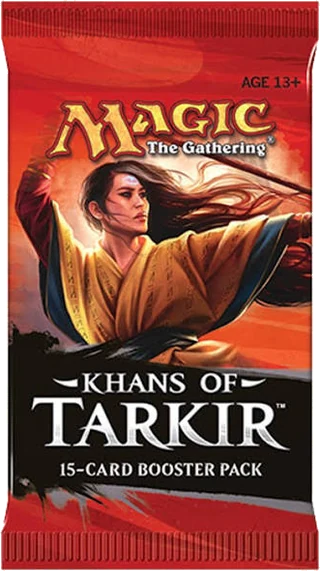
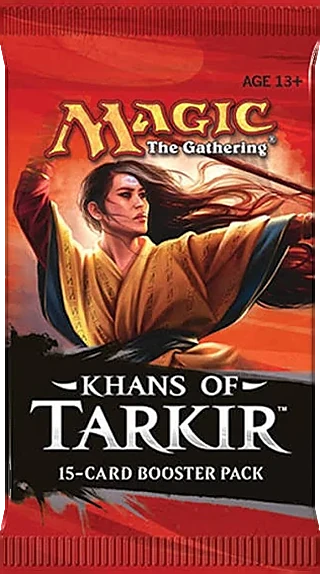
Draft v0.37: standardize the hand-cut pack wrappers (KTK, MH1, MH2)
Each set's covers are cropped to the pack, cleaned of background specks,
holes and halos, resized to one size and given the same anti-aliased
outline (tools/pack_wrappers.py).

Claude-Session: https://claude.ai/code/session_01ES5zisMmEr5N7kJQveTp3T

diff --git a/cube/index.html b/cube/index.html
@@ -363,9 +363,10 @@ a.btnlink{text-decoration:none}
 "use strict";
 /* GoatCounter event (anonymous count, see the head). Waits up to 20 s for count.js; never throws; once=key counts a thing only once per browser tab. */
 function gcEvent(path, title, once){ try{ if(once){ const k='mt_gc_'+once; if(sessionStorage.getItem(k)) return; sessionStorage.setItem(k,'1'); } }catch(e){} let n=0; const go=()=>{ try{ const g=window.goatcounter; if(g && g.count) g.count({path, title:title||path, event:true}); else if(++n<40) setTimeout(go, 500); }catch(e){} }; go(); }
-const VERSION = 'v0.36';
+const VERSION = 'v0.37';
 /* What's new on the front page (v0.19, like the Modern Table's NEWS): newest first, written for players. Add a line with every version bump. */
 const DNEWS = [
+  ['v0.37','Nov 16',"Sealed: the Khans of Tarkir, Modern Horizons and Modern Horizons 2 pack wrappers are cleaned up. Every cover of a set is now the same size and shape, with clean edges (no white specks or see-through spots)."],
   ['v0.36','Nov 15',"Archetype guides for every set: Reality Fracture, Final Fantasy, Modern Horizons 1 and 2 and Khans of Tarkir. Each shows the official archetypes and signpost cards plus notes and key cards from players' draft guides. Read them while choosing a set, while everyone joins, and in a window during the draft (Archetypes in the top bar or next to Take). Khans of Tarkir prereleases now work like the real one: pick a clan, then open five packs plus a seeded booster of your clan's colors with a foil clan promo."],
   ['v0.35','Nov 11',"Card text is now built into the site, so drafts and cube drafts keep working when Scryfall's card lookups are down, and a card whose picture can't load shows its text instead of a blank."],
   ['v0.34','Nov 11',"Sealed: Modern Horizons 2 packs now show their real wrapper art, all three covers. Every sealed set has real packs now."],

diff --git a/draft/index.html b/draft/index.html
@@ -363,9 +363,10 @@ a.btnlink{text-decoration:none}
 "use strict";
 /* GoatCounter event (anonymous count, see the head). Waits up to 20 s for count.js; never throws; once=key counts a thing only once per browser tab. */
 function gcEvent(path, title, once){ try{ if(once){ const k='mt_gc_'+once; if(sessionStorage.getItem(k)) return; sessionStorage.setItem(k,'1'); } }catch(e){} let n=0; const go=()=>{ try{ const g=window.goatcounter; if(g && g.count) g.count({path, title:title||path, event:true}); else if(++n<40) setTimeout(go, 500); }catch(e){} }; go(); }
-const VERSION = 'v0.36';
+const VERSION = 'v0.37';
 /* What's new on the front page (v0.19, like the Modern Table's NEWS): newest first, written for players. Add a line with every version bump. */
 const DNEWS = [
+  ['v0.37','Nov 16',"Sealed: the Khans of Tarkir, Modern Horizons and Modern Horizons 2 pack wrappers are cleaned up. Every cover of a set is now the same size and shape, with clean edges (no white specks or see-through spots)."],
   ['v0.36','Nov 15',"Archetype guides for every set: Reality Fracture, Final Fantasy, Modern Horizons 1 and 2 and Khans of Tarkir. Each shows the official archetypes and signpost cards plus notes and key cards from players' draft guides. Read them while choosing a set, while everyone joins, and in a window during the draft (Archetypes in the top bar or next to Take). Khans of Tarkir prereleases now work like the real one: pick a clan, then open five packs plus a seeded booster of your clan's colors with a foil clan promo."],
   ['v0.35','Nov 11',"Card text is now built into the site, so drafts and cube drafts keep working when Scryfall's card lookups are down, and a card whose picture can't load shows its text instead of a blank."],
   ['v0.34','Nov 11',"Sealed: Modern Horizons 2 packs now show their real wrapper art, all three covers. Every sealed set has real packs now."],

diff --git a/night/index.html b/night/index.html
@@ -363,9 +363,10 @@ a.btnlink{text-decoration:none}
 "use strict";
 /* GoatCounter event (anonymous count, see the head). Waits up to 20 s for count.js; never throws; once=key counts a thing only once per browser tab. */
 function gcEvent(path, title, once){ try{ if(once){ const k='mt_gc_'+once; if(sessionStorage.getItem(k)) return; sessionStorage.setItem(k,'1'); } }catch(e){} let n=0; const go=()=>{ try{ const g=window.goatcounter; if(g && g.count) g.count({path, title:title||path, event:true}); else if(++n<40) setTimeout(go, 500); }catch(e){} }; go(); }
-const VERSION = 'v0.36';
+const VERSION = 'v0.37';
 /* What's new on the front page (v0.19, like the Modern Table's NEWS): newest first, written for players. Add a line with every version bump. */
 const DNEWS = [
+  ['v0.37','Nov 16',"Sealed: the Khans of Tarkir, Modern Horizons and Modern Horizons 2 pack wrappers are cleaned up. Every cover of a set is now the same size and shape, with clean edges (no white specks or see-through spots)."],
   ['v0.36','Nov 15',"Archetype guides for every set: Reality Fracture, Final Fantasy, Modern Horizons 1 and 2 and Khans of Tarkir. Each shows the official archetypes and signpost cards plus notes and key cards from players' draft guides. Read them while choosing a set, while everyone joins, and in a window during the draft (Archetypes in the top bar or next to Take). Khans of Tarkir prereleases now work like the real one: pick a clan, then open five packs plus a seeded booster of your clan's colors with a foil clan promo."],
   ['v0.35','Nov 11',"Card text is now built into the site, so drafts and cube drafts keep working when Scryfall's card lookups are down, and a card whose picture can't load shows its text instead of a blank."],
   ['v0.34','Nov 11',"Sealed: Modern Horizons 2 packs now show their real wrapper art, all three covers. Every sealed set has real packs now."],

diff --git a/sealed/index.html b/sealed/index.html
@@ -363,9 +363,10 @@ a.btnlink{text-decoration:none}
 "use strict";
 /* GoatCounter event (anonymous count, see the head). Waits up to 20 s for count.js; never throws; once=key counts a thing only once per browser tab. */
 function gcEvent(path, title, once){ try{ if(once){ const k='mt_gc_'+once; if(sessionStorage.getItem(k)) return; sessionStorage.setItem(k,'1'); } }catch(e){} let n=0; const go=()=>{ try{ const g=window.goatcounter; if(g && g.count) g.count({path, title:title||path, event:true}); else if(++n<40) setTimeout(go, 500); }catch(e){} }; go(); }
-const VERSION = 'v0.36';
+const VERSION = 'v0.37';
 /* What's new on the front page (v0.19, like the Modern Table's NEWS): newest first, written for players. Add a line with every version bump. */
 const DNEWS = [
+  ['v0.37','Nov 16',"Sealed: the Khans of Tarkir, Modern Horizons and Modern Horizons 2 pack wrappers are cleaned up. Every cover of a set is now the same size and shape, with clean edges (no white specks or see-through spots)."],
   ['v0.36','Nov 15',"Archetype guides for every set: Reality Fracture, Final Fantasy, Modern Horizons 1 and 2 and Khans of Tarkir. Each shows the official archetypes and signpost cards plus notes and key cards from players' draft guides. Read them while choosing a set, while everyone joins, and in a window during the draft (Archetypes in the top bar or next to Take). Khans of Tarkir prereleases now work like the real one: pick a clan, then open five packs plus a seeded booster of your clan's colors with a foil clan promo."],
   ['v0.35','Nov 11',"Card text is now built into the site, so drafts and cube drafts keep working when Scryfall's card lookups are down, and a card whose picture can't load shows its text instead of a blank."],
   ['v0.34','Nov 11',"Sealed: Modern Horizons 2 packs now show their real wrapper art, all three covers. Every sealed set has real packs now."],

diff --git a/src/draft.src.html b/src/draft.src.html
@@ -363,9 +363,10 @@ a.btnlink{text-decoration:none}
 "use strict";
 /* GoatCounter event (anonymous count, see the head). Waits up to 20 s for count.js; never throws; once=key counts a thing only once per browser tab. */
 function gcEvent(path, title, once){ try{ if(once){ const k='mt_gc_'+once; if(sessionStorage.getItem(k)) return; sessionStorage.setItem(k,'1'); } }catch(e){} let n=0; const go=()=>{ try{ const g=window.goatcounter; if(g && g.count) g.count({path, title:title||path, event:true}); else if(++n<40) setTimeout(go, 500); }catch(e){} }; go(); }
-const VERSION = 'v0.36';
+const VERSION = 'v0.37';
 /* What's new on the front page (v0.19, like the Modern Table's NEWS): newest first, written for players. Add a line with every version bump. */
 const DNEWS = [
+  ['v0.37','Nov 16',"Sealed: the Khans of Tarkir, Modern Horizons and Modern Horizons 2 pack wrappers are cleaned up. Every cover of a set is now the same size and shape, with clean edges (no white specks or see-through spots)."],
   ['v0.36','Nov 15',"Archetype guides for every set: Reality Fracture, Final Fantasy, Modern Horizons 1 and 2 and Khans of Tarkir. Each shows the official archetypes and signpost cards plus notes and key cards from players' draft guides. Read them while choosing a set, while everyone joins, and in a window during the draft (Archetypes in the top bar or next to Take). Khans of Tarkir prereleases now work like the real one: pick a clan, then open five packs plus a seeded booster of your clan's colors with a foil clan promo."],
   ['v0.35','Nov 11',"Card text is now built into the site, so drafts and cube drafts keep working when Scryfall's card lookups are down, and a card whose picture can't load shows its text instead of a blank."],
   ['v0.34','Nov 11',"Sealed: Modern Horizons 2 packs now show their real wrapper art, all three covers. Every sealed set has real packs now."],

diff --git a/tools/pack_wrappers.py b/tools/pack_wrappers.py
@@ -1,0 +1,99 @@
+#!/usr/bin/env python3
+"""Standardize a set's hand-cut pack wrappers (draft/packs/<set>/booster-N.webp).
+
+    python3 tools/pack_wrappers.py <set> <template N> [--width 320]
+
+Every wrapper of the set comes out the same pixel size with the same silhouette:
+- the pack is found in each picture (largest opaque shape; stray specks and edge
+  crumbs from the background removal are dropped) and cropped to it, so no
+  picture carries a transparent margin that makes it look smaller in its slot;
+- anything inside that crop that isn't pack (holes the background removal cut
+  into the art, ragged edges) plus a thin band along the old edge (where white or
+  grey background halos live) is filled from the neighbouring pack pixels;
+- the crop is resized to the set's size: --width wide, as tall as the template's
+  pack is in proportion;
+- the template's outline (booster-<template N>, the cleanest cut), smoothed,
+  mirrored to be symmetric and anti-aliased, becomes every wrapper's alpha.
+Wizards' own cut-outs (FRA, FIN from the Pack images workflow) don't need this.
+"""
+import sys, glob, os, argparse
+import numpy as np
+from PIL import Image, ImageFilter
+from scipy import ndimage as nd
+import cv2
+
+def clean_mask(a):
+    m = a > 127
+    m = nd.binary_opening(m, iterations=1)
+    lab, n = nd.label(m)
+    if n == 0:
+        raise SystemExit('no opaque pixels')
+    k = np.argmax(nd.sum(m, lab, range(1, n + 1))) + 1
+    m = lab == k
+    m = nd.binary_closing(m, iterations=2)
+    return nd.binary_fill_holes(m)
+
+def bbox(m):
+    ys, xs = np.where(m)
+    return xs.min(), ys.min(), xs.max() + 1, ys.max() + 1
+
+def silhouette(path, W, H):
+    a = np.array(Image.open(path).convert('RGBA'))[:, :, 3]
+    m = clean_mask(a)
+    x0, y0, x1, y1 = bbox(m)
+    m = m[y0:y1, x0:x1].astype(np.float32)
+    S = 4  # supersample, smooth, threshold, average down: an even 1-px anti-aliased edge
+    big = cv2.resize(m, (W * S, H * S), interpolation=cv2.INTER_LINEAR)
+    big = (big + big[:, ::-1]) / 2
+    big = cv2.GaussianBlur(big, (0, 0), S * 0.9)
+    big = (big >= 0.5).astype(np.float32)
+    small = cv2.resize(big, (W, H), interpolation=cv2.INTER_AREA)
+    return (small * 255 + 0.5).astype(np.uint8)
+
+def content(path, W, H):
+    im = np.array(Image.open(path).convert('RGBA'))
+    a = im[:, :, 3]
+    m = clean_mask(a)
+    x0, y0, x1, y1 = bbox(m)
+    rgb = np.ascontiguousarray(im[y0:y1, x0:x1, :3])
+    good = (a[y0:y1, x0:x1] > 127) & m[y0:y1, x0:x1]
+    # pixels within ~2 px of the old edge carry the old background's colour
+    good = nd.binary_erosion(good, iterations=2, border_value=0)
+    # and pale, colourless specks a little further in are leftover white/grey background
+    near = nd.distance_transform_edt(m[y0:y1, x0:x1]) <= 7
+    hsv = cv2.cvtColor(rgb, cv2.COLOR_RGB2HSV)
+    pale = (hsv[:, :, 1] < 60) & (hsv[:, :, 2] > 150)
+    good &= ~(near & pale)
+    unknown = (~good).astype(np.uint8) * 255
+    bgr = cv2.cvtColor(rgb, cv2.COLOR_RGB2BGR)
+    bgr = cv2.inpaint(bgr, unknown, 3, cv2.INPAINT_TELEA)
+    rgb = cv2.cvtColor(bgr, cv2.COLOR_BGR2RGB)
+    up = W > rgb.shape[1]
+    out = Image.fromarray(rgb).resize((W, H), Image.LANCZOS)
+    if up:  # small sources: a light sharpen after enlarging
+        out = out.filter(ImageFilter.UnsharpMask(radius=1.2, percent=60, threshold=2))
+    return out
+
+def main():
+    ap = argparse.ArgumentParser()
+    ap.add_argument('set')
+    ap.add_argument('template', type=int)
+    ap.add_argument('--width', type=int, default=320)
+    o = ap.parse_args()
+    d = os.path.join(os.path.dirname(__file__), '..', 'draft', 'packs', o.set)
+    files = sorted(glob.glob(os.path.join(d, 'booster-*.webp')))
+    tpl = os.path.join(d, 'booster-%d.webp' % o.template)
+    ta = np.array(Image.open(tpl).convert('RGBA'))[:, :, 3]
+    x0, y0, x1, y1 = bbox(clean_mask(ta))
+    W = o.width
+    H = round(W * (y1 - y0) / (x1 - x0))
+    alpha = silhouette(tpl, W, H)
+    outs = [(f, content(f, W, H)) for f in files]
+    for f, rgb in outs:
+        im = rgb.convert('RGBA')
+        im.putalpha(Image.fromarray(alpha))
+        im.save(f, 'WEBP', quality=90, method=6)
+        print(os.path.basename(f), '->', im.size)
+
+if __name__ == '__main__':
+    main()

diff --git a/CLAUDE.md b/CLAUDE.md
@@ -34,7 +34,7 @@ Booster draft for up to 8 players; bots fill empty seats. Its own version: `cons
 - **Basic land art (v0.15):** the deck builder's land row starts with a Basic land art select (`BASIC_ART`, same list as the Modern Table's `BASIC_SETS`). It reads and writes `mt_settings.basics`, the Modern Table's own setting (the pages share storage), so the Modern Table's `loadDeck` applies it when the drafted deck is played; the draft page only shows thumbnails (`dt_basicart`, looked up once through `sfetch`). Keep the two lists in step when a basic style is added.
 - **Sealed / prerelease (v0.16):** `H.mode` is `'draft'` or `'sealed'` (front page: Host a draft / Host a prerelease; the setup screen's Format select switches it). Sealed has no bots, no timer and up to 8 players: `startSealed(set)` gives each seat `s.kit = {packs:[[u…]×6], promo:u}` and puts every card in `s.pool` at once (`KIT_PACKS`), then goes straight to `phase:'build'`, so the Swiss rounds, Ready, hand-off and "Start a new event" are the draft's own. `promoFor(set)` draws the promo from the set's `rare…` sheet at its odds, one entry per card name at its lowest collector number, traditional foil, flagged `promo` (PROMO tag); cubes get none. **Since v0.28 only sets in `PRE_SETS` (`['fra','ktk']` since v0.36, the prerelease kits we know) get a promo and are called a prerelease** (`isPre(code)`: Start the prerelease, "Prerelease: …" title, Your kit tab); every other set's sealed event is six packs with no promo (Start the event, "Sealed: …", Your packs). Add a set to `PRE_SETS` only once its real prerelease kit is worked out. The Draft Table (draft/) hosts drafts only: its Format select and Host a prerelease choice are gone; sealed is hosted from sealed/. Opening is client-side only (`B.op`: `opened`, `promo`, `showing`, `built`, saved with the build in `dt_build`): `kitHTML()` draws the kit box, six wrappers and the promo face down (`BACK_IMG`, the Modern Table's card back), a pack fans out in pack order (`.fan`, rares glow), Sort into my pool, then piles (`pilesHTML(cards, B.grp)`: colour / mana value / type / rarity, `GROUPS`). Build your deck shows the usual build screen with the sideboard pane called Pool, laid out in piles, and every card starting there. Cards move between panes by click (any device) or mouse drag (`DRAG`, pointer events on `[data-zone]`; works in drafts too).
 - **Color dive (v0.17; visible text in American English since v0.21, rail buttons are mana symbols too):** `diveRailHTML()` puts five colour buttons beside the build screen's Pool (sealed) / Sideboard (draft) pane (`.poolwrap`); `B.dive` (saved with the build) opens `diveHTML()`, a fixed `#dive` window inside `#main`: every pool card of that colour by `inColour(d, k)` (its colours, so hybrid and gold count for each; colourless non-land cards in every colour (v0.18); lands by `landMakes(d)`: basic land types, "Add {…}" symbols, "any color"), creatures and other spells in mana-value columns 0–1 … 7+, lands in a row. Cards in the deck get `.indk` (green edge, IN DECK); a click toggles like elsewhere. `diveBulk(true|false)`: Bulk add / Take all out for that colour. Mana-symbol buttons in the window header (`data-dive-to`, `manaSym(k)`: Scryfall's symbol SVG over a letter pip) switch colour without closing; the grid's row-label column is `min-content` with `justify-content:start` so cards line up from the left (v0.20). Close ✕ or Esc.
-- **Pack images:** `draft/packs/<set>/index.json` (`boosters`: wrapper files, `kit`: the Prerelease Pack box) and WebP files, written by the **Pack images** workflow (`.github/workflows/pack_images.yml`, `tools/get_pack_images.py`) from Wizards' WPN product-shot zip listed in `tools/pack_images.txt` (the sandbox can't reach media.wizards.com; `listing.txt` shows the zip's contents). A kit's covers are dealt evenly by `kitCovers(K, n)` (v0.24: each cover equally often, order shuffled by a hash of the kit's first card, `coverOf`); before, each pack hashed its own first card and the host's seat never drew the Liliana cover. Sets without images get drawn wrappers. Since v0.31 the kit box image shows only for `isPre` sets, so a set whose zip has a Prerelease Pack (Final Fantasy) shows only its wrappers. Sets with images: FRA, FIN (v0.31), MH1 (v0.32: three covers from pictures the maintainer supplied, turned upright, background cleared and committed by hand to `draft/packs/mh1/`; KTK (v0.33) the same way, five covers, the fourth cut from a picture of all five; MH2 (v0.34) the same way, three covers (an extra pass peels the light grey halo a screenshot's background leaves at the edge); not in `tools/pack_images.txt`, so the workflow never touches them). A set without a zip can get wrappers the same way: portrait WebP files `booster-N.webp` (about 320 px wide, transparent background) plus `index.json` with `kit: ""`. Older sets (MH2, MH1, KTK) have no WPN product-shot zip; only single press images or retailer photos turned up (2026-11-11). To add a set: add its line (zip URL from the set's WPN product page, "Product Shots") and push.
+- **Pack images:** `draft/packs/<set>/index.json` (`boosters`: wrapper files, `kit`: the Prerelease Pack box) and WebP files, written by the **Pack images** workflow (`.github/workflows/pack_images.yml`, `tools/get_pack_images.py`) from Wizards' WPN product-shot zip listed in `tools/pack_images.txt` (the sandbox can't reach media.wizards.com; `listing.txt` shows the zip's contents). A kit's covers are dealt evenly by `kitCovers(K, n)` (v0.24: each cover equally often, order shuffled by a hash of the kit's first card, `coverOf`); before, each pack hashed its own first card and the host's seat never drew the Liliana cover. Sets without images get drawn wrappers. Since v0.31 the kit box image shows only for `isPre` sets, so a set whose zip has a Prerelease Pack (Final Fantasy) shows only its wrappers. Sets with images: FRA, FIN (v0.31), MH1 (v0.32: three covers from pictures the maintainer supplied, turned upright, background cleared and committed by hand to `draft/packs/mh1/`; KTK (v0.33) the same way, five covers, the fourth cut from a picture of all five; MH2 (v0.34) the same way, three covers (an extra pass peels the light grey halo a screenshot's background leaves at the edge); not in `tools/pack_images.txt`, so the workflow never touches them). **v0.37:** the hand-cut sets were standardized with `python3 tools/pack_wrappers.py <set> <template N>` (ktk 2, mh1 1, mh2 1): each picture is cropped to its pack (stray specks dropped, no transparent margin), holes and the old edge band (plus pale colourless specks within 7 px of it) are filled from neighbouring pack pixels, the crop is resized to 320 px wide by the template's proportions, and the template's outline (smoothed, mirrored, anti-aliased) becomes every cover's alpha, so all covers of a set are the same size and shape. Run it on any new hand-cut set too (pick its cleanest cover as the template). KTK covers 1 and 4 came from small pictures (184 and 141 px wide) and stay softer than the rest. A set without a zip can get wrappers the same way: portrait WebP files `booster-N.webp` (about 320 px wide, transparent background) plus `index.json` with `kit: ""`. Older sets (MH2, MH1, KTK) have no WPN product-shot zip; only single press images or retailer photos turned up (2026-11-11). To add a set: add its line (zip URL from the set's WPN product page, "Product Shots") and push.
 - **PeerJS** is loaded from `../src/peerjs.min.js`, not inlined, to keep the page small.
 - **Testing:** needs a local PeerServer (`npm i peer`, `PeerServer({port:9000, path:'/', host:'127.0.0.1'})`), the repo served over http, and `?peerhost=127.0.0.1:9000&peersecure=0`. Mock `api.scryfall.com/cards/collection`. Drive a host and two guests through draft, deck building and three rounds; `window.__D` exposes `H`, `V`, `genPack`, `loadSet`.
 
